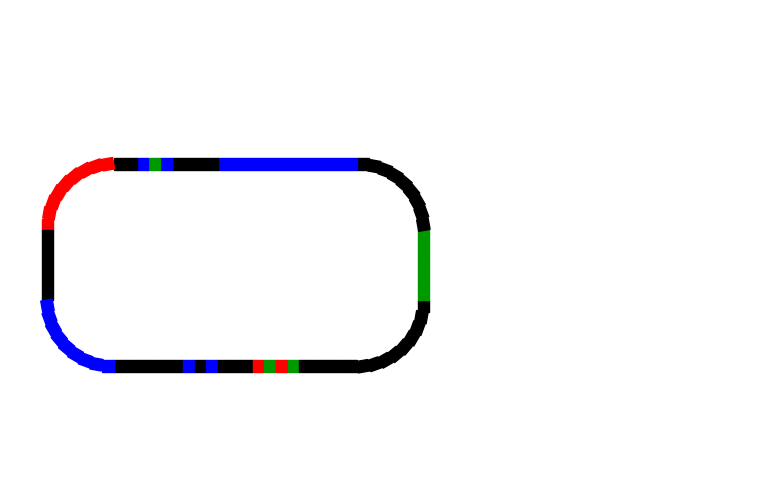
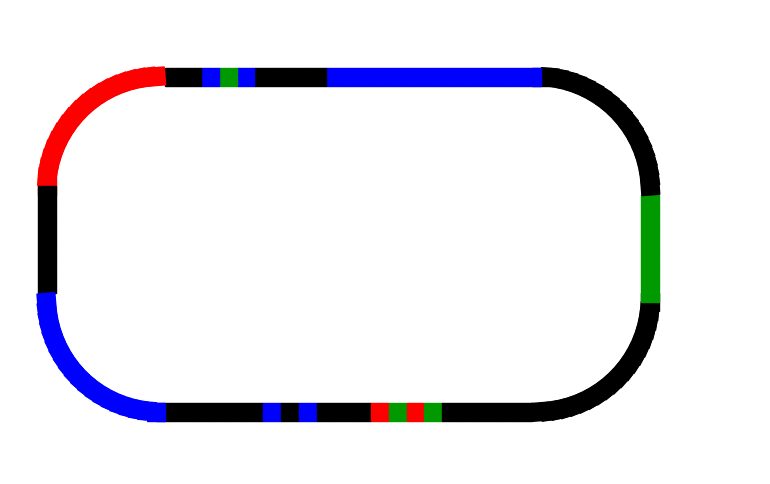
added new capabilities

Changed region(s): [[0.0312, 0.124, 0.8727, 0.8988]]

diff --git a/libraries/path_utils.py b/libraries/path_utils.py
@@ -12,7 +12,7 @@ green=(0, 0.6, 0, 1)
 black=(0, 0, 0, 1)
 
 # block size in inches
-step_size = 0.1275
+step_size = 0.19685  # 5 mm
 
 """
 Function Definitions
@@ -47,17 +47,18 @@ class Ozo_Path:
         self.fig,self.ax = plt.subplots(1,1,figsize=figsize)
         self.fig.tight_layout()
 
-        
         self.ax.axis('equal')
         self.ax.set_xlim(self.xlimits)
         self.ax.set_ylim(self.ylimits)
         self.ax.axis('off')
 
-        self._step_pointer = np.array([0,0])
-        self._step_direction = np.array([1,0])
+        self._step_pointer = np.array([0.0,0.0])
+        self._step_direction = np.array([1.0,0.0])
         self._angle = 0
 
-    def add_step(self,color,count=1):
+        self._waypoints = []
+
+    def add_step(self,color,count=1,step_frac=1.0):
         """
         Add a step of a specified RGBA color
         to the current step_pointer location
@@ -67,7 +68,7 @@ class Ozo_Path:
             step = make_step(self._step_pointer,color,angle=self._angle*180/np.pi)
             self.ax.add_patch(step)  # add the step to the board
             # increment the step in the current direction
-            self._step_pointer = self._step_pointer+self._step_direction*step_size
+            self._step_pointer += self._step_direction*step_size*step_frac
             counter+=1
 
     def set_position(self,loc):
@@ -80,15 +81,61 @@ class Ozo_Path:
     def set_rel_direction(self,angle):
         self.set_direction(self._angle*180/np.pi+angle)
 
+    def shift_position(self,x,y):
+        """
+        shift current position by x and y
+        """
+        self._step_pointer+=np.array([x,y])
+
+    def store_position(self,label=''):
+        """
+        save current position for later reference
+        """ 
+        self._waypoints.append([label,self._step_pointer.copy()])
+
+    def add_turn(self,angle,rate=0.5,step_number=10,color=black):
+        """
+        Place a turn based on relative angle
+        angle - relative angle to current direction
+        color - color of the path
+        rate - step size per increment
+        step_num - number of steps in the turn
+        """
+        angle_inc = angle/step_number
+        counter = 0
+        while counter < step_number:
+            self.set_rel_direction(angle_inc)
+            self.add_step(color,step_frac=rate)
+            counter+=1
+
+    def add_step_seq(self,color_list):
+        """
+        Add a step for each color listed
+        """
+        for color in color_list:
+            self.add_step(color)
+
     def add_fast(self):
-        self.add_step(blue)
-        self.add_step(black)
-        self.add_step(blue)
+        """
+        add the color sequence for
+            the "fast" command
+        """
+        self.add_step_seq([blue,black,blue])
+
 
     def add_slow(self):
-        self.add_step(red)
-        self.add_step(black)
-        self.add_step(red)
+        """
+        add the color sequence for
+            the "slow" command
+        """
+        self.add_step_seq([red,black,red])
+
+    def add_turbo(self):
+        """
+        add the color sequence for
+            the "turbo" command
+        """
+        self.add_step_seq([red,blue,red])
 
     def show(self):
         #self.ax.axis('equal')

diff --git a/testscripts/02_test_Ozo_Path.py b/testscripts/02_test_Ozo_Path.py
@@ -1,71 +1,61 @@
+# import matplotlib
+# matplotlib.use('Agg')
 
 
 import sys
 import matplotlib.pyplot as plt
 
-libpath = "/home/hayman/python/ozobot/libraries"
+libpath = "/home/hayman/python/ozobot-coursedraw/libraries"
 if not libpath in sys.path:
     sys.path.append(libpath)
 
-save_path = '/home/hayman/python/ozobot/courses/'
+save_path = '/home/hayman/python/ozobot-coursedraw/courses/'
 
 import path_utils as pu
 
 BotPath = pu.Ozo_Path((8,5))
 
-BotPath.set_position([1,1.0])
+BotPath.set_position([1.5,0.5])
 BotPath.add_step(pu.black,count=6)
 BotPath.add_fast()
 BotPath.add_step(pu.black,count=3)
 
 # Tornado
-BotPath.add_step(pu.red)
-BotPath.add_step(pu.green)
-BotPath.add_step(pu.red)
-BotPath.add_step(pu.green)
+BotPath.add_step_seq([pu.red,pu.green,]*2)
+# BotPath.add_step(pu.red)
+# BotPath.add_step(pu.green)
+# BotPath.add_step(pu.red)
+# BotPath.add_step(pu.green)
 BotPath.add_step(pu.black,count=5)
 
 # Turn Up
-counter = 0
-while counter < 9:
-    BotPath.set_rel_direction(10)
-    BotPath.add_step(pu.black)
-    counter+=1
+BotPath.add_turn(90,rate=0.5,step_number=20)
+# counter = 0
+# while counter < 18:
+#     BotPath.set_rel_direction(5)
+#     BotPath.add_step(pu.black,step_frac=0.5)
+#     counter+=1
 
 BotPath.add_step(pu.green,count=6)
 
 # Turn Up
-counter = 0
-while counter < 9:
-    BotPath.set_rel_direction(10)
-    BotPath.add_step(pu.black)
-    counter+=1
+BotPath.add_turn(90,rate=0.5,step_number=20)
 
 BotPath.add_step(pu.blue,count=12)
 BotPath.add_step(pu.black,count=4)
 
 # Turbo
-BotPath.add_step(pu.blue)
-BotPath.add_step(pu.green)
-BotPath.add_step(pu.blue)
+BotPath.add_step_seq([pu.blue,pu.green,pu.blue])
 
 BotPath.add_step(pu.black,count=2)
 
 # Turn Up
-counter = 0
-while counter < 9:
-    BotPath.set_rel_direction(10)
-    BotPath.add_step(pu.red)
-    counter+=1
+BotPath.add_turn(90,rate=0.5,step_number=20,color=pu.red)
     
 BotPath.add_step(pu.black,count=6)
 
 # Turn Up
-counter = 0
-while counter < 9:
-    BotPath.set_rel_direction(10)
-    BotPath.add_step(pu.blue)
-    counter+=1
+BotPath.add_turn(90,rate=0.5,step_number=20,color=pu.blue)
 
 BotPath.savefig(save_path+'TestFile.png')
 
